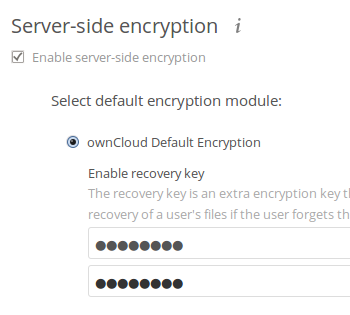
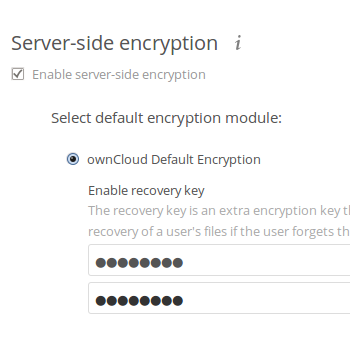
add example theme and fix encryption pics

diff --git a/page-eight-one.php b/page-eight-one.php
@@ -125,7 +125,20 @@
 				<img class="thumbnail" alt="Updates" src="<?php bloginfo('template_directory'); ?>/assets/img/features/update.png" />
 				<h3 class="featuretitle">Update channels</h3></br>
 				<p class="featuredesc">The built in Updater app and our package repositories now offer different update channels to keep ownCloud updated from. Administrators can choose to track the latest released code, a more conservative stable branch, release candidates, or daily builds to align their ownCloud installation to their needs.</p>
-			</div>		</div>
+			</div>
+		</div>
+		<div class="row featurerow">
+			<div class="col-md-4 featureblock">
+				<img class="thumbnail" alt="example theme" src="<?php bloginfo('template_directory'); ?>/assets/img/features/design.png" />
+				<h3 class="featuretitle">Example theme</h3></br>
+				<p class="featuredesc">To make developing a custom ownCloud theme easier, a new example theme was included with ownCloud 8.1. Find details on how to theme ownCloud in the <a href="https://doc.owncloud.org/server/8.1/admin_manual/operations/theming.html">documentation</a>.</p>
+			</div>
+
+
+
+		</div>
+
+
 
 		<div class="row">
 			<div class="col-md-3"><a href="<?php echo get_template_directory_uri(); ?>/assets/img/screenshots/server/eight-one/tips-and-tricks.png" title="Tips and tricks as well as links to documentation are well integrated in the admin panel" target="_blank"><img src="<?php echo get_template_directory_uri(); ?>/assets/img/screenshots/server/eight-one/tips-and-tricks-wee.png" style="width: 100%" alt="..." class="img-thumbnail"></a></div>
@@ -133,6 +146,7 @@
 			<div class="col-md-3"><a href="<?php echo get_template_directory_uri(); ?>/assets/img/screenshots/server/eight-one/encryption3.png" title="Next generation server side encryption in ownCloud" target="_blank"><img src="<?php echo get_template_directory_uri(); ?>/assets/img/screenshots/server/eight-one/encryption3-wee.png" style="width: 100%" alt="..." class="img-thumbnail"></a></div>
 			<div class="col-md-3"><a href="<?php echo get_template_directory_uri(); ?>/assets/img/screenshots/server/eight-one/encryption5.png" title="Next generation server side encryption in ownCloud" target="_blank"><img src="<?php echo get_template_directory_uri(); ?>/assets/img/screenshots/server/eight-one/encryption5-wee.png" style="width: 100%" alt="..." class="img-thumbnail"></a></div>
 			<div class="col-md-3"><a href="<?php echo get_template_directory_uri(); ?>/assets/img/screenshots/server/eight-one/update-channels.png" title="Next generation server side encryption in ownCloud" target="_blank"><img src="<?php echo get_template_directory_uri(); ?>/assets/img/screenshots/server/eight-one/update-channels-wee.png" style="width: 100%" alt="..." class="img-thumbnail"></a></div>
+			<div class="col-md-3"><a href="<?php echo get_template_directory_uri(); ?>/assets/img/screenshots/server/eight-one/example-theme.png" title="Included example theme" target="_blank"><img src="<?php echo get_template_directory_uri(); ?>/assets/img/screenshots/server/eight-one/example-theme-wee.png" style="width: 100%" alt="..." class="img-thumbnail"></a></div>
 		</div>
 videos showing the admin screen, managing users, the first minutes after setting up ownCloud and enabling external storage go here.
 		<a name="developer"></a>
